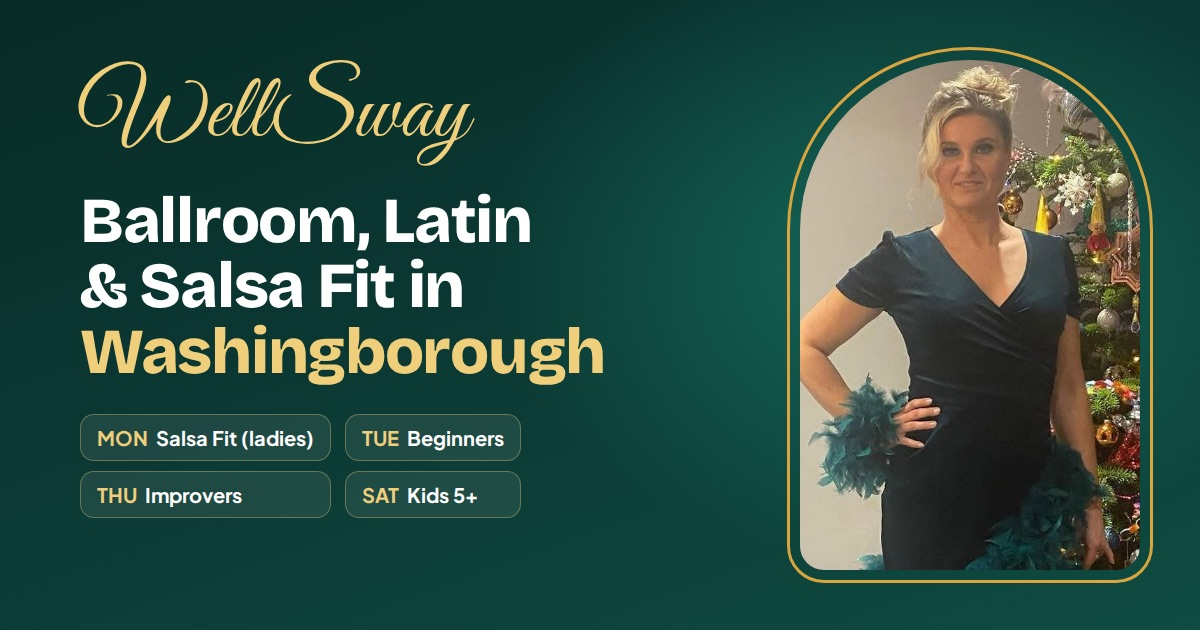
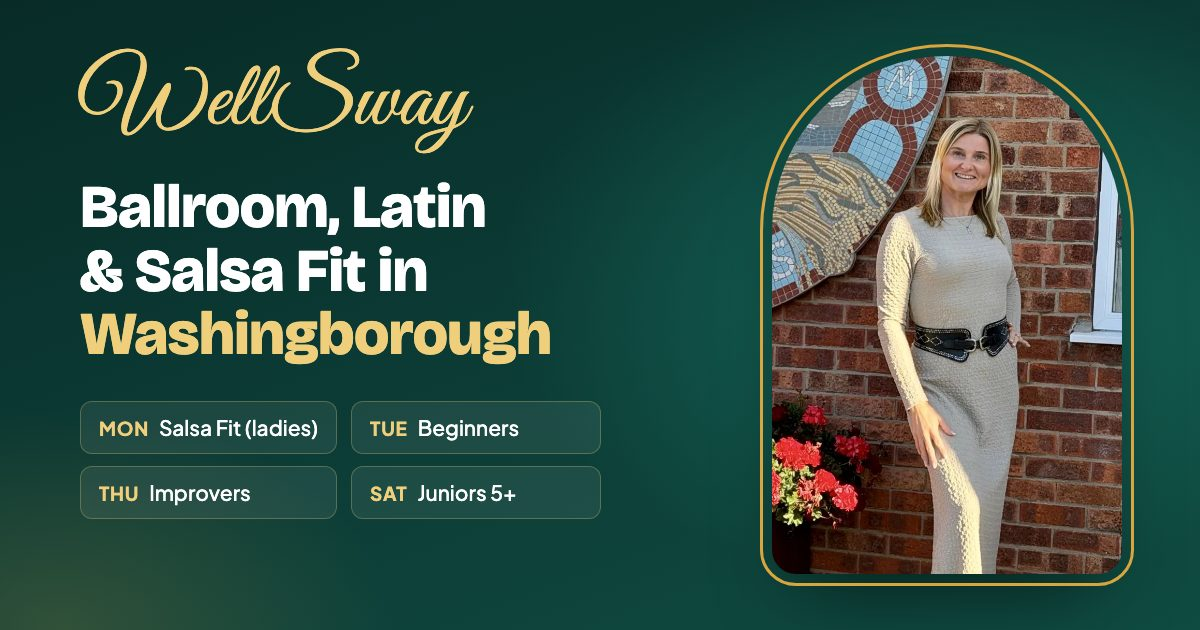
Rebuild share image with new photo and juniors

diff --git a/HANDOVER.md b/HANDOVER.md
@@ -65,7 +65,7 @@ The preview pages differ slightly from this repo because the preview host can't 
 ### Code tidy-up (safe to do any time)
 - [x] **Removed unused CSS** left from earlier iterations (72 rules; checked against the HTML and JS, layout unchanged at 390px and 1280px).
 - [x] Compressed the share image: now `og-image.jpg` (145 KB, was a 577 KB PNG). Meta tags updated.
-- [x] New hero photo (Justyna outside, Oct 2026) as `photos/justyna-hero.webp`; old Christmas-tree `justyna.jpg` removed. `og-image.jpg` still uses the old photo and should be regenerated.
+- [x] New hero photo (Justyna outside, Oct 2026) as `photos/justyna-hero.webp`; old Christmas-tree `justyna.jpg` removed. `og-image.jpg` rebuilt with the new photo and "Juniors 5+" (2 Oct 2026).
 
 ### Nice to have (discussed, not yet requested)
 - [ ] A **first-class offer** ("First class free" or "£5 taster"), shown in the hero and timetable. The single most effective conversion idea.
